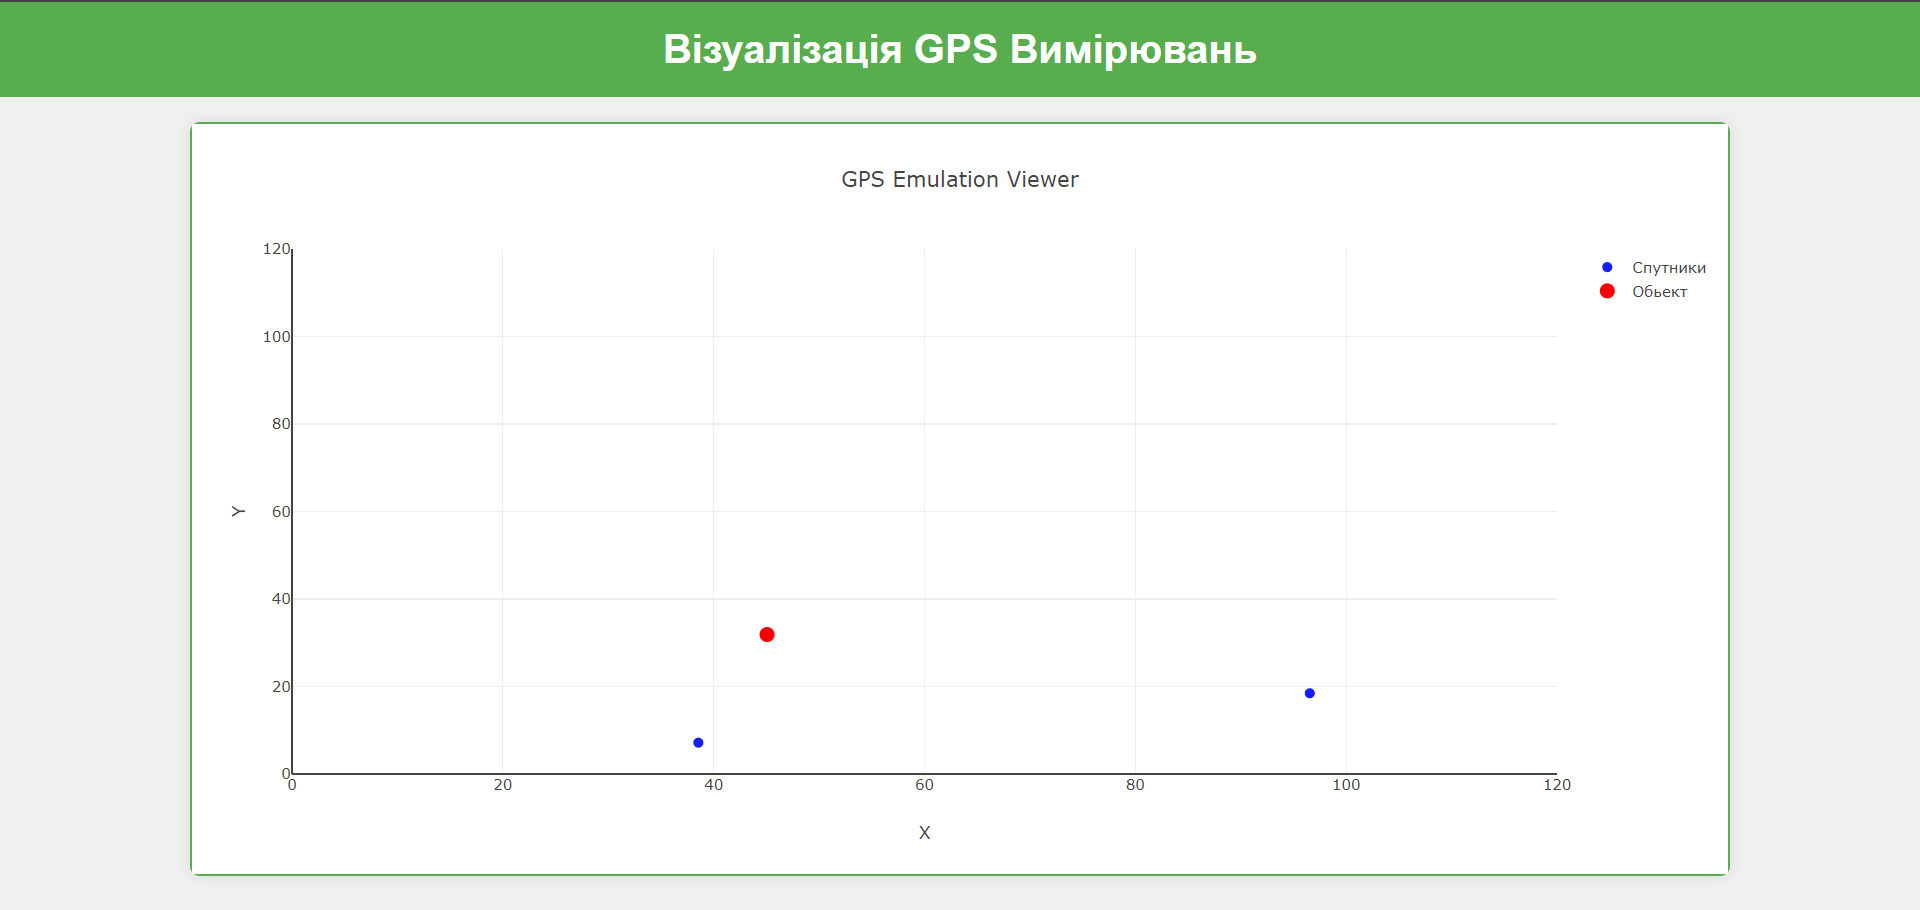
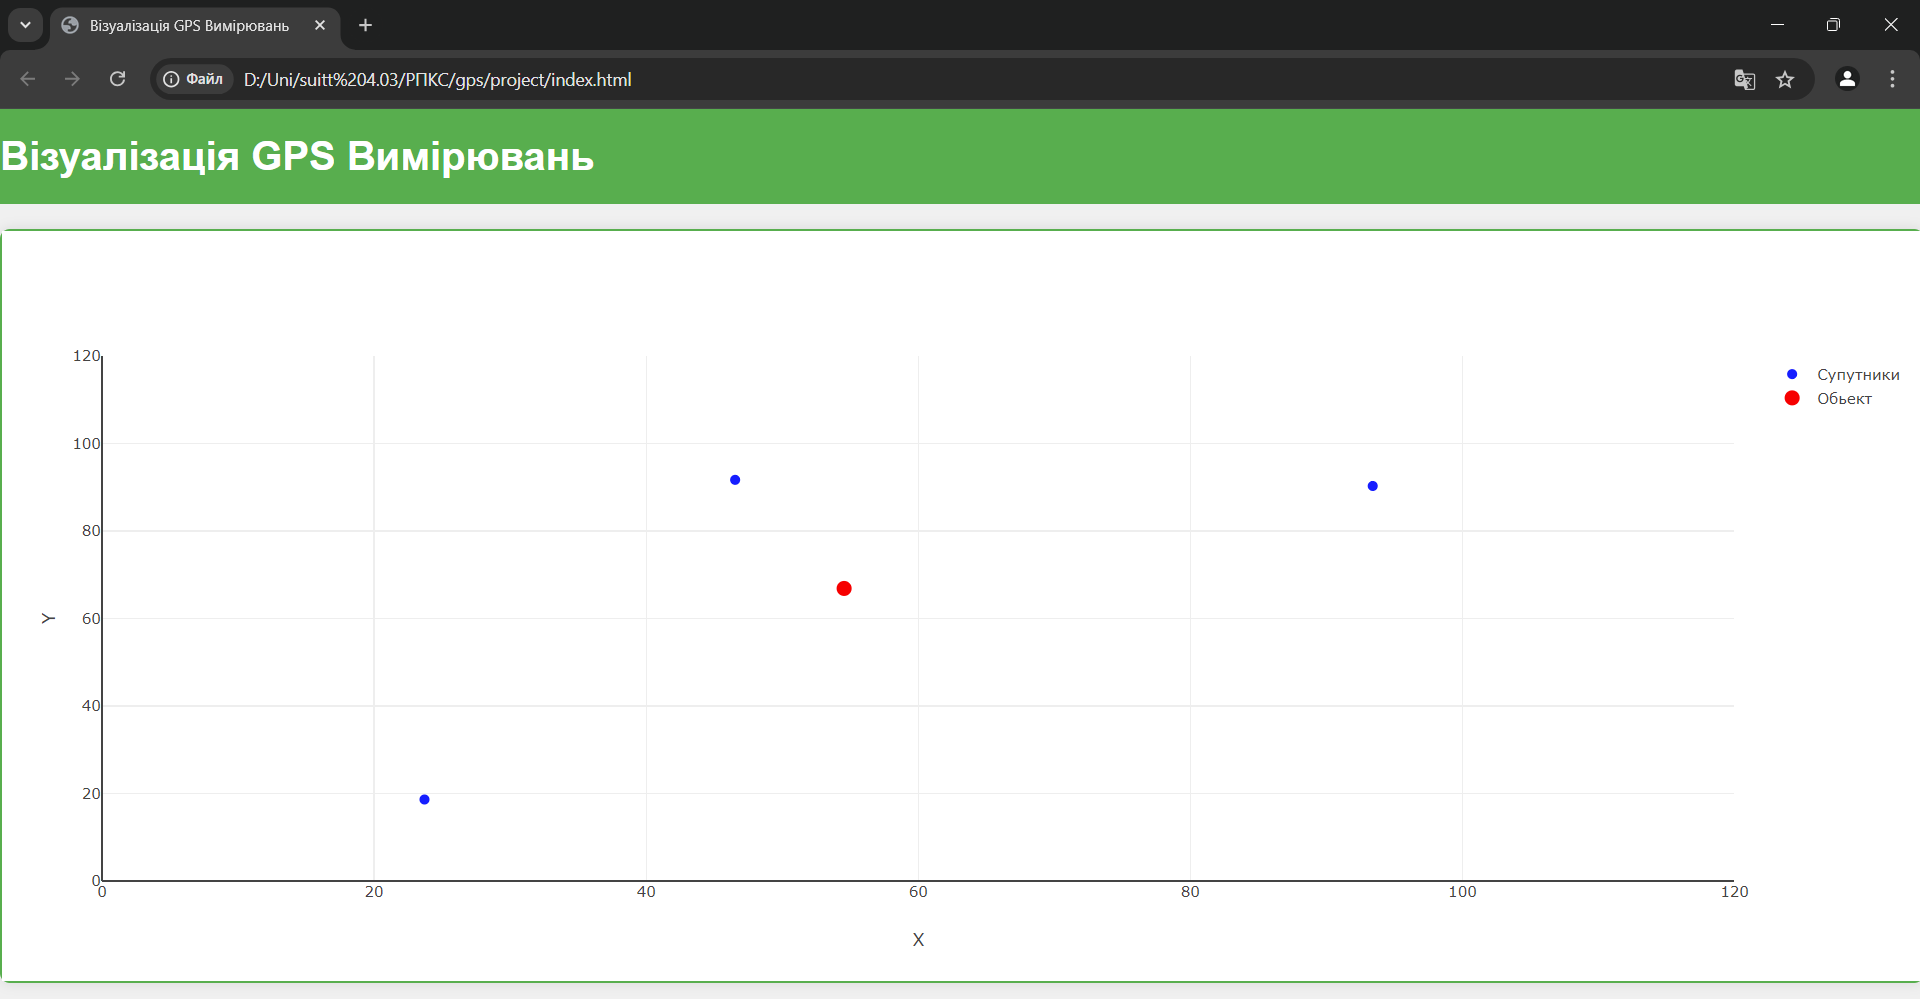
done

diff --git a/project/script.js b/project/script.js
@@ -65,7 +65,7 @@ function updatePlot() {
 		y: satelliteArray.map(d => d.y),
 		mode: 'markers',
 		type: 'scatter',
-		name: 'Спутники',
+		name: 'Супутники',
 		marker: { size: 8, color: 'blue' },
 	}
 
@@ -79,7 +79,7 @@ function updatePlot() {
 	}
 
 	const layout = {
-		title: 'GPS Emulation Viewer',
+		title: '',
 		xaxis: {
 			title: 'X',
 			range: boundaries.x,
